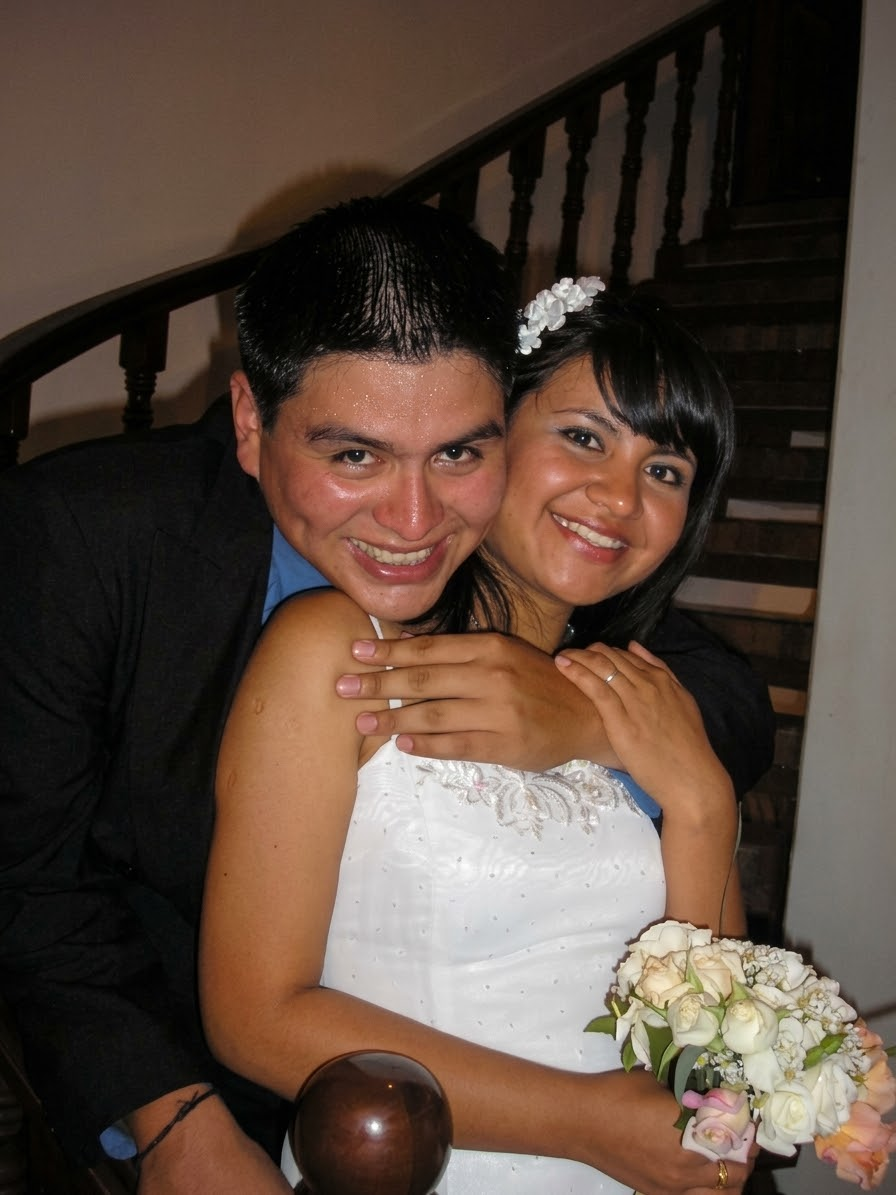
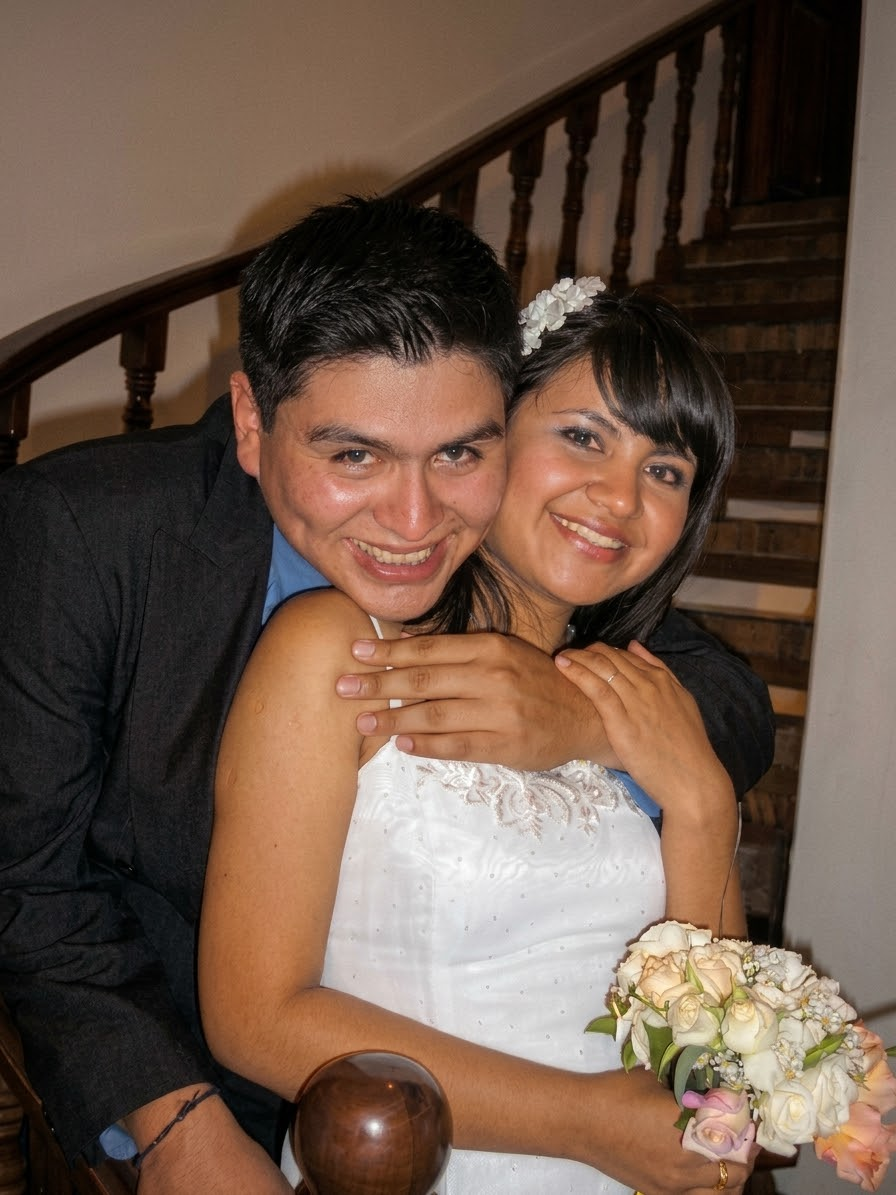
cambios finales

diff --git a/app.js b/app.js
@@ -145,7 +145,7 @@ const galleryControls = document.querySelector(".gallery-controls");
 const galleryPrevious = document.querySelector("#gallery-prev");
 const galleryNext = document.querySelector("#gallery-next");
 const galleryFullscreen = document.querySelector("#gallery-fullscreen");
-const photoUrls = Array.from({ length: 14 }, (_, index) => `assets/photos/${index + 1}.jpg`);
+const photoUrls = Array.from({ length: 15 }, (_, index) => `assets/photos/${index + 1}.jpg`);
 let loadedPhotos = [];
 let currentPhoto = 0;
 let activeLayer = 0;
